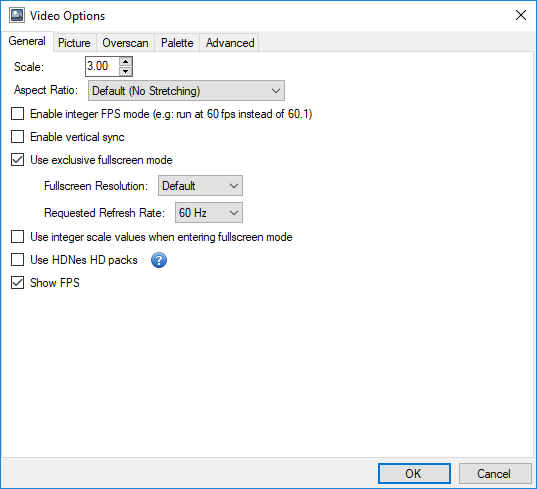
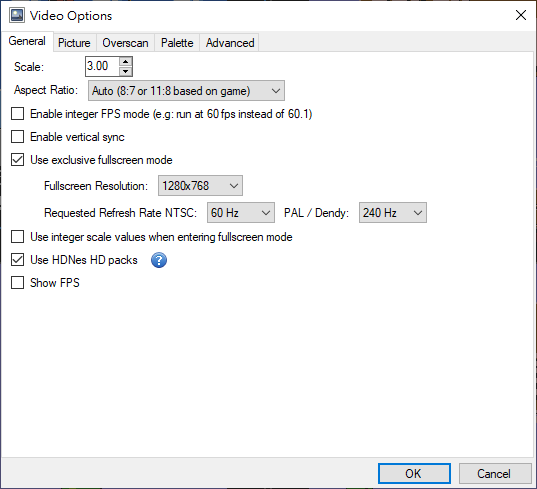
Update documentation

diff --git a/Docs/content/configuration/Video.md b/Docs/content/configuration/Video.md
@@ -23,7 +23,7 @@ chapter: false
 
 **Fulscreen Resolution**: This option is shown only when exclusive fullsceen mode is enabled. It allows you to select the screen resolution that should be used when in exclusive fullscreen mode. The default resolution is the current Windows screen resolution.
 
-**Requested Refresh Rate**: This option is shown only when exclusive fullsceen mode is enabled. It allows you to select your preferred refresh rate when running in exclusive fullscreen mode.
+**Requested Refresh Rate**: This option is shown only when exclusive fullsceen mode is enabled. It allows you to select your preferred refresh rate for NTSC and PAL/Dendy when running in exclusive fullscreen mode.
 
 **Use integer scale values when entering fullscreen mode**: By default, fullscreen mode fills the entire screen. However, this can cause non-integer scaling values to be used -- for example, in 1080p resolution, the scale becomes 4.5x. Since this can cause irregularly shaped pixels, you can use this option to use the nearest integer scale value instead (e.g 4x in this example).
 

diff --git a/Docs/content/debugging/Debugger.md b/Docs/content/debugging/Debugger.md
@@ -392,6 +392,7 @@ The `Break Options` submenu contains a number of options to configure under whic
 * **Break on unofficial opcodes**: Break the emulation whenever an unofficial opcode is about to execute.
 * **Break on BRK**: Break the emulation whenever a BRK instruction is about to execute.
 * **Break on CPU crash**: Break the emulation whenever an instruction that will cause the CPU to freeze is about to execute.
+* **Break on unlogged code**: Break the emulation whenever an instruction that haven't been logged is about to execute.
 
 <div></div>
    
